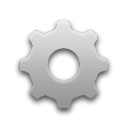
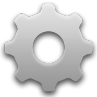
a few changes
Made the gear icon a little bigger.
Added little shadows to the question and popular tag boxes.
Increased the line spacing in the popular tags box.
Removed downvotes from the questions.
Addded answer-lists (with answers) underneath each question. But it
looks really sloppy, it needs a style makeover.

diff --git a/index.html b/index.html
@@ -17,20 +17,46 @@
         <div id="q1" class="question">
             <div class="vote">
                 <button class="upvote"></button>
-                <button class="downvote"></button>
-            </div>
-            <div class="score">20</div>
-            <div class="text">What is a cell?</div>
-        <div class="answers">4<div>answers</div></div>
-        </div>
-        <div id="q2" class="question">
-            <div class="vote">
-                <button class="upvote"></button>
-                <button class="downvote"></button>
             </div>
             <div class="score">20</div>
             <div class="text">What is a cell?</div>
             <div class="answers">4<div>answers</div></div>
+        </div>
+        <div id="al1" class="answer-list">
+            <div id="a1" class="answer">
+                    <div class="vote">
+                    <button class="upvote"></button>
+                    <button class="downvote"></button>
+                </div>
+                <div class="score">20</div>
+                <div class="text">A cell is a thing that...</div>
+            </div>
+            <div id="a2" class="answer">
+                    <div class="vote">
+                    <button class="upvote"></button>
+                    <button class="downvote"></button>
+                </div>
+                <div class="score">0</div>
+                <div class="text">A cell is NOT a thing that...</div>
+            </div>
+        </div>
+        <div id="q2" class="question">
+            <div class="vote">
+                <button class="upvote"></button>
+            </div>
+            <div class="score">20</div>
+            <div class="text">What is a cell?</div>
+            <div class="answers">4<div>answers</div></div>
+        </div>
+        <div id="al2" class="answer-list">
+            <div id="a1" class="answer">
+                    <div class="vote">
+                    <button class="upvote"></button>
+                    <button class="downvote"></button>
+                </div>
+                <div class="score">10</div>
+                <div class="text">A cell is a thing that...</div>
+            </div>
         </div>
     </div>
 
